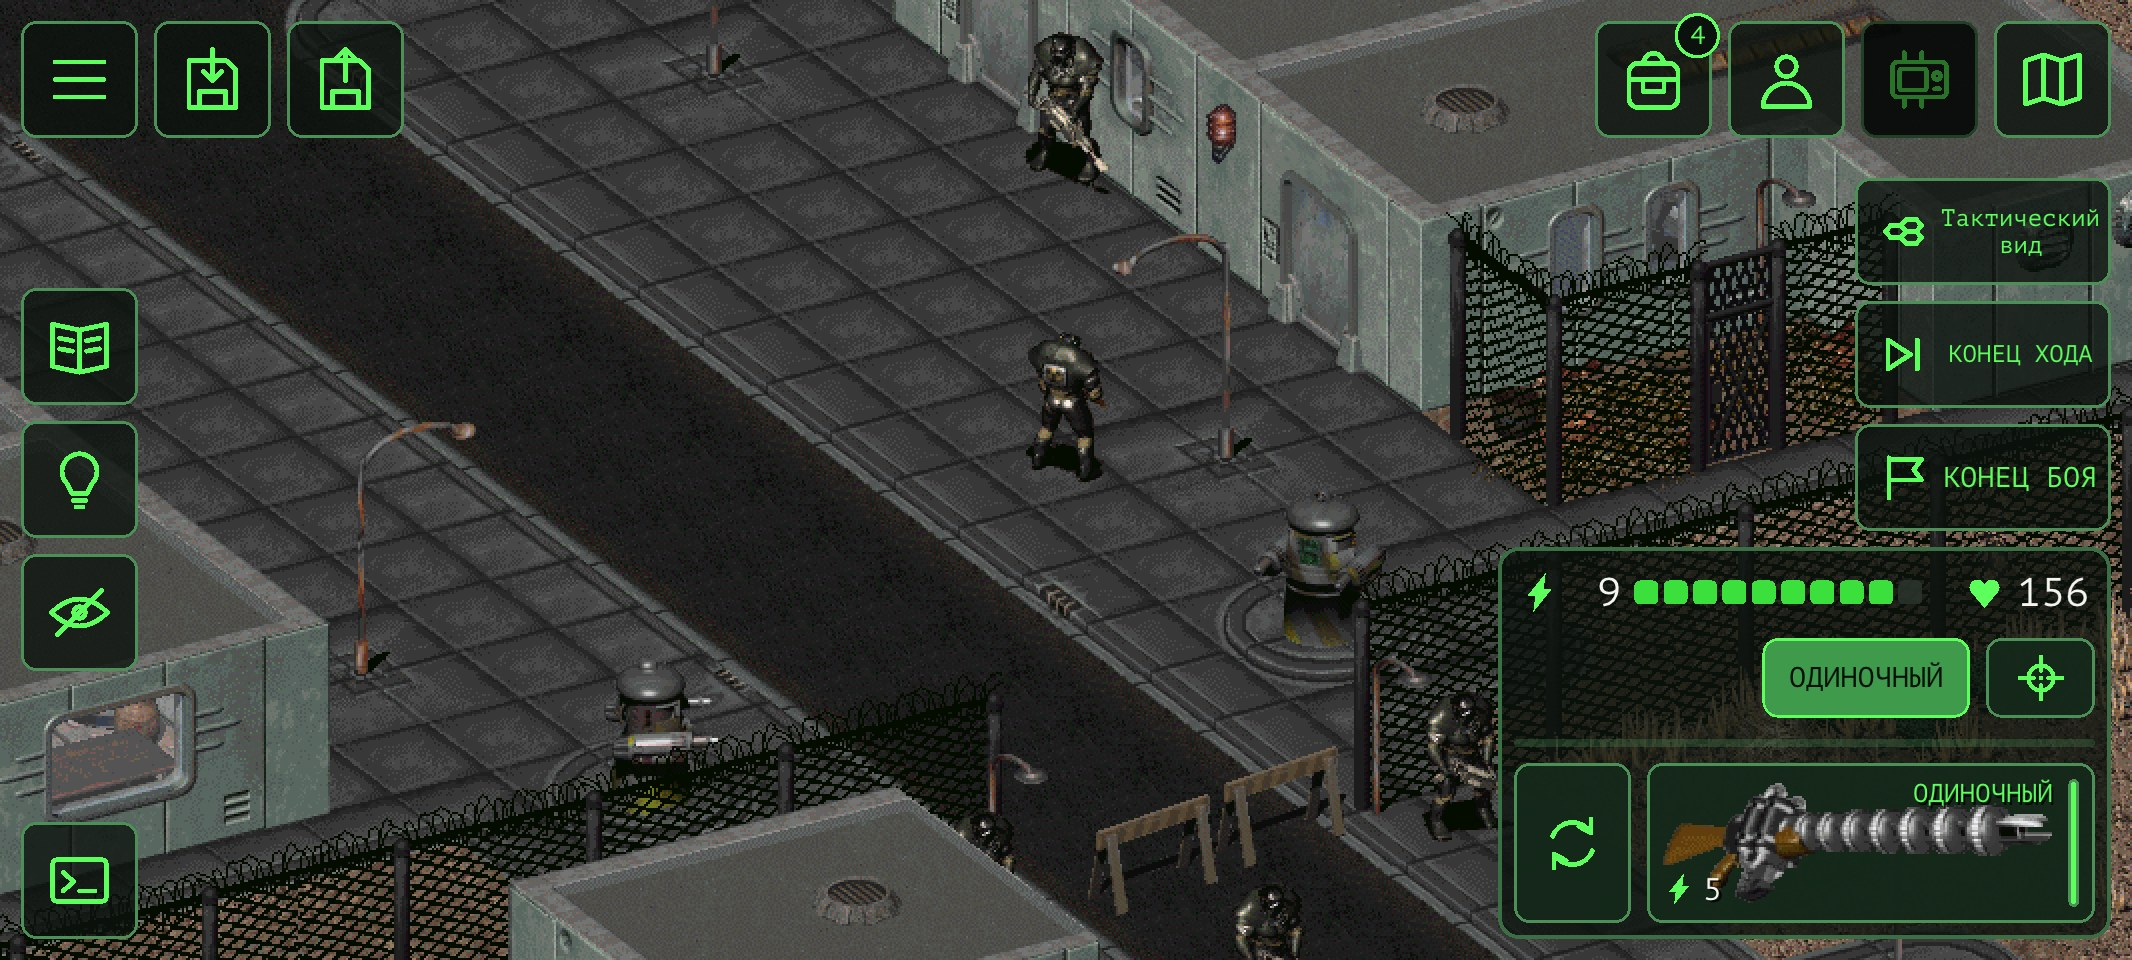
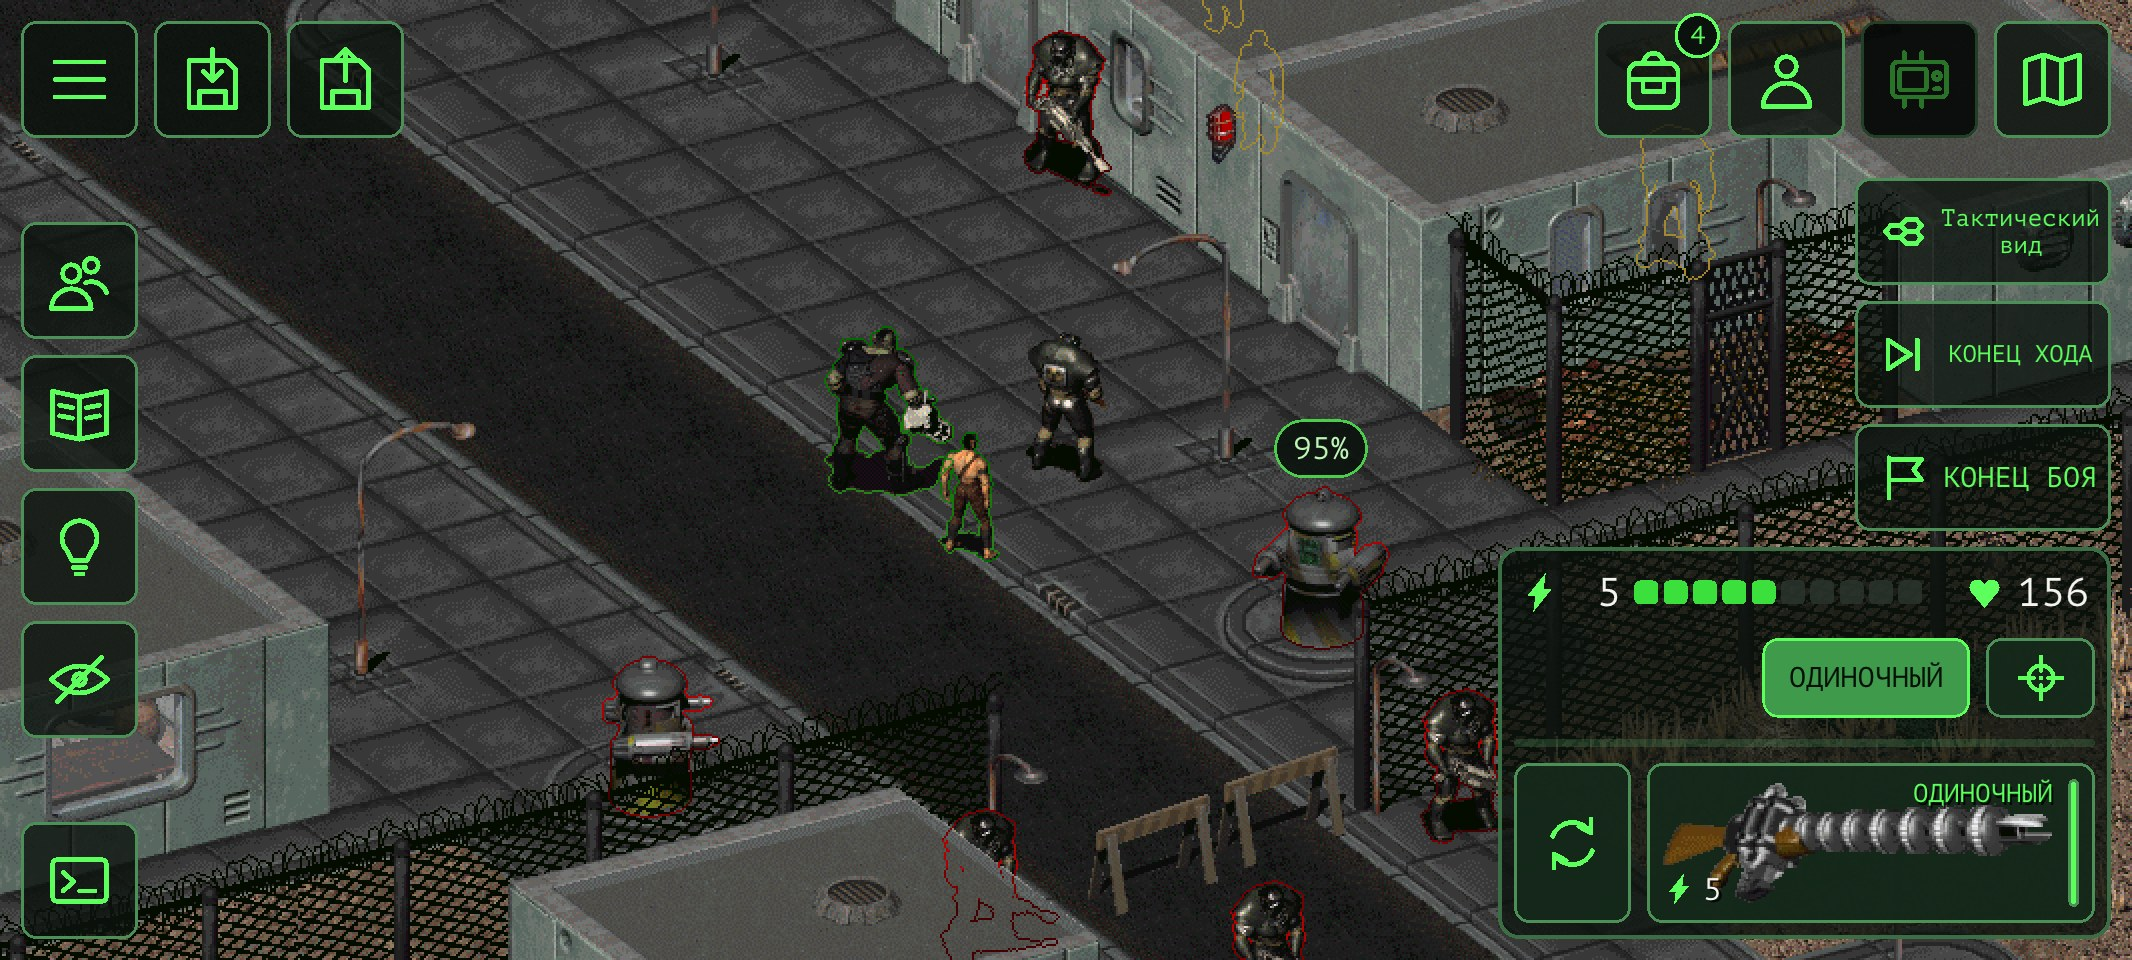
Inventory and barter: the shown items' weight under every filter; README screenshots: normal combat with the party and a picked enemy, an item's action menu

diff --git a/src/dev_autotest.cc b/src/dev_autotest.cc
@@ -578,10 +578,11 @@ static const DevAutotestStep kDevAutotestTacticalSteps[] = {
 // shows (the critter's selection doesn't keep it) and confirmed by a tap
 // where the sprite covers it - the dude walks there.
 // Screenshots for the README (not a test): a late game character - a
-// neutral name, good stats, levels and their hit points, Advanced Power
-// Armor, late weapons - at Navarro (the Enclave's base): inventory,
-// character, the drill sergeant's welcome (his head), combat's HUD and the
-// tactical view.
+// neutral name, good stats, levels and their hit points, skill points
+// spent, Advanced Power Armor, late weapons - at Navarro (the Enclave's
+// base): the drill sergeant's welcome to a civilian (his head), then as a
+// soldier with Marcus and Sulik: inventory with an item's action menu,
+// character, normal combat with an enemy picked (its hit chance).
 static const DevAutotestStep kDevAutotestPhotosSteps[] = {
     { DEV_AUTOTEST_ACTION_NONE, 0, 0, 0, 30, "p00_start" },
     // "Избранный" in the game's charset.
@@ -608,10 +609,9 @@ static const DevAutotestStep kDevAutotestPhotosSteps[] = {
     { DEV_AUTOTEST_ACTION_MAP_TRANSITION, 2, 25881, 0, 150, "p10_navarro", "navarro.map" },
     { DEV_AUTOTEST_ACTION_TALK_TO_PID, 250, 0, 0, 150, "p11_sergeant" },
     { DEV_AUTOTEST_ACTION_NONE, 0, 0, 0, 60, "p12_sergeant_shouts" },
-    { DEV_AUTOTEST_ACTION_LOG_DIALOG, 0, 0, 0, 1, "p12b_dialog" },
     { DEV_AUTOTEST_ACTION_CHOOSE_OPTION, 0, 0, 0, 120, "p13_after" },
-    { DEV_AUTOTEST_ACTION_LOG_DIALOG, 0, 0, 0, 1, "p13b_dialog" },
-    // Back in the yard as a soldier: Advanced Power Armor, late weapons.
+    // Back in the yard as a soldier: Advanced Power Armor, late weapons,
+    // Marcus (a minigun) and Sulik (a spear).
     { DEV_AUTOTEST_ACTION_MAP_TRANSITION, 2, 25895, 0, 150, "p20_navarro_again", "navarro.map" },
     { DEV_AUTOTEST_ACTION_EQUIP_ITEM, 349, 0, 0, 10, "p21_armor" },
     { DEV_AUTOTEST_ACTION_EQUIP_ITEM, 392, HAND_LEFT, 0, 10, "p22_gauss" },
@@ -621,17 +621,23 @@ static const DevAutotestStep kDevAutotestPhotosSteps[] = {
     { DEV_AUTOTEST_ACTION_GIVE_ITEM, 350, 0, 0, 1, "p23d_bozar" },
     { DEV_AUTOTEST_ACTION_GIVE_ITEM, 144, 4, 0, 1, "p23e_super_stimpaks" },
     { DEV_AUTOTEST_ACTION_GIVE_ITEM, 40, 8, 0, 1, "p23f_stimpaks" },
-    { DEV_AUTOTEST_ACTION_GIVE_ITEM, 110, 2, 0, 30, "p23g_psycho" },
-    { DEV_AUTOTEST_ACTION_COMMAND, static_cast<int>(GameCommandType::Inventory), 0, 0, 40, "p24_inventory" },
-    { DEV_AUTOTEST_ACTION_BACK, 0, 0, 0, 30, "p24b_inventory_closed" },
-    { DEV_AUTOTEST_ACTION_COMMAND, static_cast<int>(GameCommandType::Character), 0, 0, 40, "p25_character" },
-    { DEV_AUTOTEST_ACTION_MUI_TAP, 0, 0, 0, 30, "p25a_later", "character.perkpanel.later" },
-    { DEV_AUTOTEST_ACTION_MUI_TAP, 0, 0, 0, 30, "p25b_skills", "character.tab.skills" },
-    { DEV_AUTOTEST_ACTION_MUI_TAP, 0, 0, 0, 30, "p25c_closed", "character.nav.back" },
+    { DEV_AUTOTEST_ACTION_GIVE_ITEM, 110, 2, 0, 1, "p23g_psycho" },
+    { DEV_AUTOTEST_ACTION_ADD_PARTY_MEMBER, 161, 3, ROTATION_W, 10, "p24a_marcus", "HCMARCUS.int" },
+    { DEV_AUTOTEST_ACTION_GIVE_PARTY_ITEM, 12, 0, 0, 1, "p24b_minigun" },
+    { DEV_AUTOTEST_ACTION_WIELD_PARTY_ITEM, 12, 0, 0, 1, "p24c_marcus_wields" },
+    { DEV_AUTOTEST_ACTION_ADD_PARTY_MEMBER, 97, 3, ROTATION_SW, 10, "p24d_sulik", "Kcsulik.int" },
+    { DEV_AUTOTEST_ACTION_GIVE_PARTY_ITEM, 7, 0, 0, 1, "p24e_spear" },
+    { DEV_AUTOTEST_ACTION_WIELD_PARTY_ITEM, 7, 0, 0, 30, "p24f_sulik_wields" },
+    { DEV_AUTOTEST_ACTION_COMMAND, static_cast<int>(GameCommandType::Inventory), 0, 0, 40, "p25_inventory" },
+    { DEV_AUTOTEST_ACTION_MUI_LONG_PRESS, 45, 0, 0, 30, "p25a_item_menu", "inventory.pid.233" },
+    { DEV_AUTOTEST_ACTION_MUI_TAP, 0, 0, 0, 20, "p25b_menu_closed", "inventory.info" },
+    { DEV_AUTOTEST_ACTION_MUI_TAP, 0, 0, 0, 30, "p25c_inventory_closed", "inventory.back" },
+    { DEV_AUTOTEST_ACTION_COMMAND, static_cast<int>(GameCommandType::Character), 0, 0, 40, "p26_character" },
+    { DEV_AUTOTEST_ACTION_MUI_TAP, 0, 0, 0, 30, "p26a_later", "character.perkpanel.later" },
+    { DEV_AUTOTEST_ACTION_MUI_TAP, 0, 0, 0, 30, "p26b_closed", "character.nav.back" },
     { DEV_AUTOTEST_ACTION_START_COMBAT, 0, 0, 0, 60, "p30_combat_started" },
     { DEV_AUTOTEST_ACTION_CENTER_DUDE, 0, 0, 0, 30, "p31_combat" },
-    { DEV_AUTOTEST_ACTION_HUD_TAP, HUD_ELEMENT(TacticalView), 0, 0, 40, "p32_tactical" },
-    { DEV_AUTOTEST_ACTION_HUD_TAP, HUD_ELEMENT(TacticalView), 0, 0, 20, "p33_tactical_off" },
+    { DEV_AUTOTEST_ACTION_TOUCH_TAP_CRITTER, 0, 1, 0, 40, "p32_enemy_picked" },
 };
 
 static const DevAutotestStep kDevAutotestBehindCritterSteps[] = {
@@ -1018,6 +1024,26 @@ static Object* devAutotestFindNearestCritter()
     int bestDistance = 0;
     for (Object* object = objectFindFirstAtElevation(gElevation); object != nullptr; object = objectFindNextAtElevation()) {
         if (object == gDude || FrmId(object).objectType() != OBJ_TYPE_CRITTER || (object->flags & OBJECT_HIDDEN) != 0 || critterIsDead(object)) {
+            continue;
+        }
+
+        int distance = objectGetDistanceBetween(gDude, object);
+        if (critter == nullptr || distance < bestDistance) {
+            critter = object;
+            bestDistance = distance;
+        }
+    }
+    return critter;
+}
+
+// The nearest living critter not in the party the dude can shoot at.
+static Object* devAutotestFindNearestEnemyInSight()
+{
+    Object* critter = nullptr;
+    int bestDistance = 0;
+    for (Object* object = objectFindFirstAtElevation(gElevation); object != nullptr; object = objectFindNextAtElevation()) {
+        if (object == gDude || FrmId(object).objectType() != OBJ_TYPE_CRITTER || (object->flags & OBJECT_HIDDEN) != 0 || critterIsDead(object)
+            || objectIsPartyMember(object) || _combat_is_shot_blocked(gDude, gDude->tile, object->tile, object, nullptr)) {
             continue;
         }
 
@@ -3243,7 +3269,8 @@ void devAutotestTick()
             break;
         case DEV_AUTOTEST_ACTION_TOUCH_LONG_PRESS_CRITTER:
         case DEV_AUTOTEST_ACTION_TOUCH_TAP_CRITTER: {
-            Object* critter = devAutotestFindNearestCritter();
+            // `b` - 1: the nearest enemy in the line of fire.
+            Object* critter = step->b == 1 ? devAutotestFindNearestEnemyInSight() : devAutotestFindNearestCritter();
             if (critter != nullptr) {
                 float x;
                 float y;

diff --git a/src/mui_inventory.cc b/src/mui_inventory.cc
@@ -384,17 +384,17 @@ namespace {
         muiPopClip();
     }
 
-    // Weight of the shown category, "Drop all" of the shown items.
+    // Weight of the shown items, "Drop all" of them.
     void InventoryScreen::buildBottom(MuiContext& ui, const MuiRect& rect)
     {
         const MuiTheme& theme = muiTheme();
 
-        if (filter.filter != MuiItemFilter::All) {
-            float iconSize = ui.dp(15.0f);
-            muiDrawIcon(MuiIcon::Weight, rect.x + iconSize / 2.0f + ui.dp(2.0f), rect.centerY(), iconSize, ui.dp(1.5f), theme.textDim);
-            MuiRect label = { rect.x + iconSize + ui.dp(8.0f), rect.y, rect.w * 0.4f, rect.h };
-            muiDrawTextAligned(number(muiItemsWeight(items)), label, ui.dp(14.0f), theme.textDim, MuiAlign::Start, MuiAlign::Center);
-        }
+        // Every filter, "All" too: the bottom always tells what the shown
+        // items weigh (the total with what is worn and held is on the right).
+        float iconSize = ui.dp(15.0f);
+        muiDrawIcon(MuiIcon::Weight, rect.x + iconSize / 2.0f + ui.dp(2.0f), rect.centerY(), iconSize, ui.dp(1.5f), theme.textDim);
+        MuiRect weightRect = { rect.x + iconSize + ui.dp(8.0f), rect.y, rect.w * 0.4f, rect.h };
+        muiDrawTextAligned(number(muiItemsWeight(items)), weightRect, ui.dp(14.0f), theme.textDim, MuiAlign::Start, MuiAlign::Center);
 
         bool confirming = dropAllTime != 0 && ui.now - dropAllTime < kConfirmMs;
         MuiRect button = { rect.right() - rect.w * 0.55f, rect.y, rect.w * 0.55f, rect.h };

diff --git a/src/mui_barter.cc b/src/mui_barter.cc
@@ -224,9 +224,8 @@ namespace {
         muiDrawTextAligned(prefix + number(view.offerValue), { offerX, tableInfoY, unit, infoHeight }, ui.dp(13.0f), theme.text, MuiAlign::Center, MuiAlign::Center);
         muiDrawTextAligned(prefix + number(view.requestValue), { requestX, tableInfoY, unit, infoHeight }, ui.dp(13.0f), theme.text, MuiAlign::Center, MuiAlign::Center);
 
-        if (bartererFilter.filter != MuiItemFilter::All) {
-            muiDrawTextAligned(weightLabel + U" " + number(muiItemsWeight(lists[LIST_BARTERER])), { bartererX, sideInfoY, sideWidth, infoHeight }, infoSize, theme.textDim, MuiAlign::Start, MuiAlign::Center);
-        }
+        // The trader's shown items' weight, every filter ("All" too).
+        muiDrawTextAligned(weightLabel + U" " + number(muiItemsWeight(lists[LIST_BARTERER])), { bartererX, sideInfoY, sideWidth, infoHeight }, infoSize, theme.textDim, MuiAlign::Start, MuiAlign::Center);
 
         // Offer under both tables.
         MuiRect offerRect = { offerX, buttonY, requestX + unit - offerX, buttonHeight };

diff --git a/README.ru.md b/README.ru.md
@@ -8,11 +8,9 @@
 
 ## Скриншоты
 
-![Тактический вид в бою](docs/screenshots/tactical-view.jpg)
+<p><img src="docs/screenshots/combat.jpg" alt="Бой: выбран враг, шанс попадания" width="49%"> <img src="docs/screenshots/dialogue.jpg" alt="Диалог: разводящий сержант в Наварро" width="49%"></p>
 
-<p><img src="docs/screenshots/combat.jpg" alt="Бой" width="49%"> <img src="docs/screenshots/dialogue.jpg" alt="Диалог: разводящий сержант в Наварро" width="49%"></p>
-
-<p><img src="docs/screenshots/inventory.jpg" alt="Инвентарь" width="49%"> <img src="docs/screenshots/character.jpg" alt="Персонаж" width="49%"></p>
+<p><img src="docs/screenshots/inventory.jpg" alt="Инвентарь: меню действий предмета" width="49%"> <img src="docs/screenshots/character.jpg" alt="Персонаж" width="49%"></p>
 
 ## Что изменено (уведомление об изменении ПО)
 

diff --git a/README.md b/README.md
@@ -8,11 +8,9 @@ This is an **unofficial, fan-made, modified version** of Fallout 2 CE. It is not
 
 ## Screenshots
 
-![Tactical view in combat](docs/screenshots/tactical-view.jpg)
+<p><img src="docs/screenshots/combat.jpg" alt="Combat: an enemy picked, its hit chance" width="49%"> <img src="docs/screenshots/dialogue.jpg" alt="Dialogue: the drill sergeant at Navarro" width="49%"></p>
 
-<p><img src="docs/screenshots/combat.jpg" alt="Combat" width="49%"> <img src="docs/screenshots/dialogue.jpg" alt="Dialogue: the drill sergeant at Navarro" width="49%"></p>
-
-<p><img src="docs/screenshots/inventory.jpg" alt="Inventory" width="49%"> <img src="docs/screenshots/character.jpg" alt="Character" width="49%"></p>
+<p><img src="docs/screenshots/inventory.jpg" alt="Inventory: an item's action menu" width="49%"> <img src="docs/screenshots/character.jpg" alt="Character" width="49%"></p>
 
 ## What is changed (modified software notice)
 
